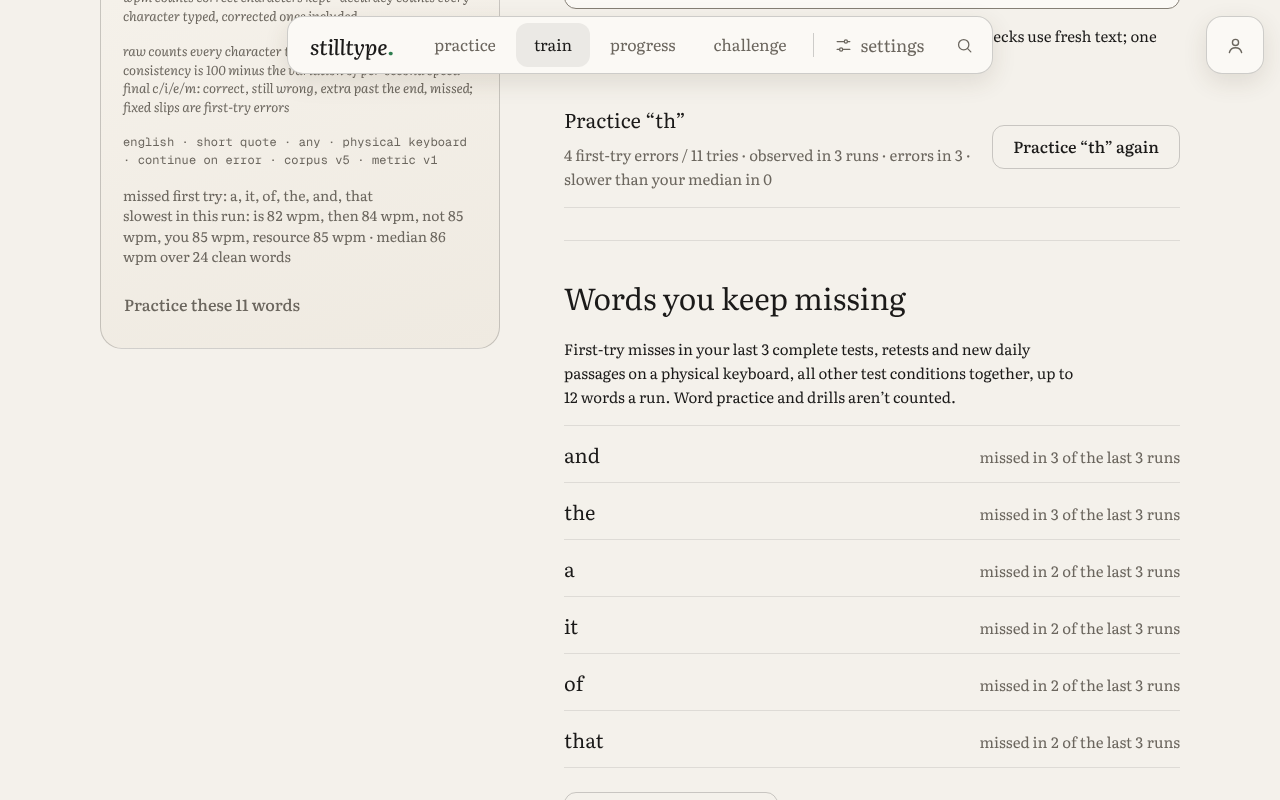
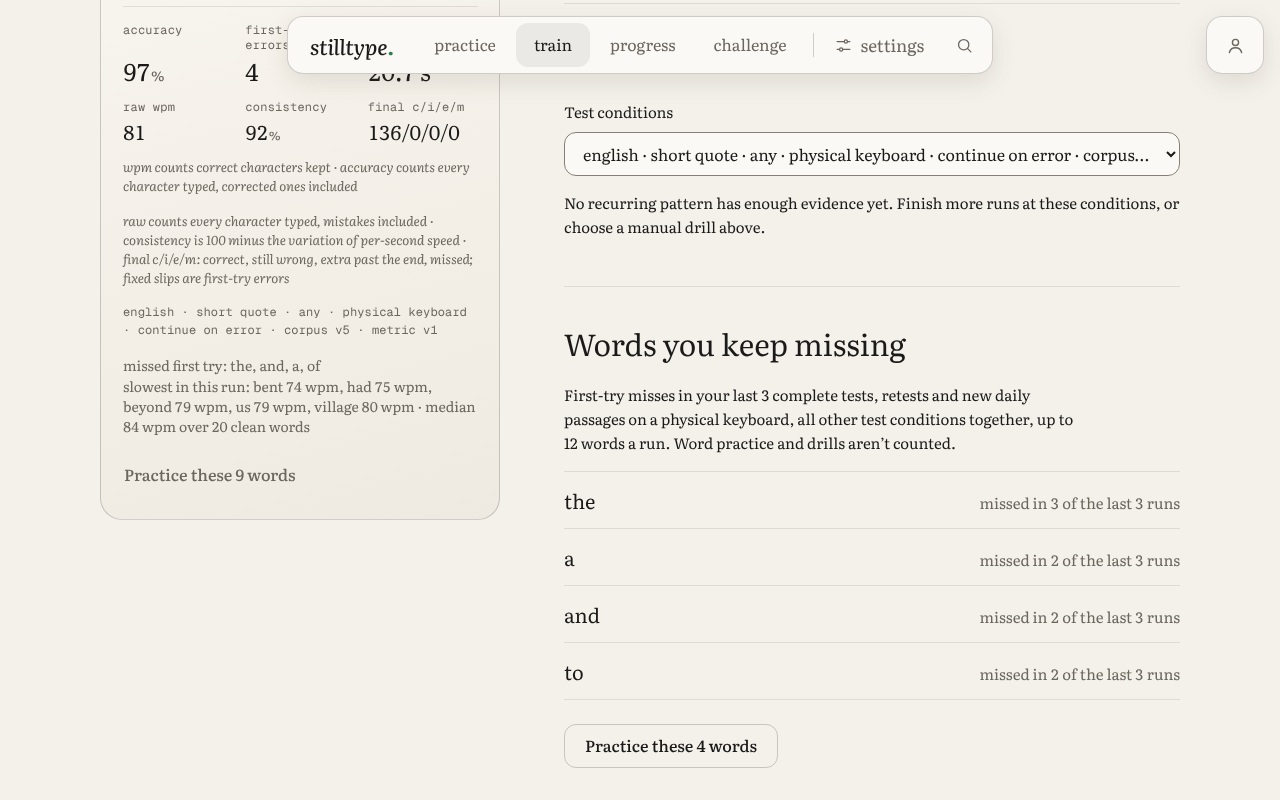
Frame the whole missed-words list and its button in the screenshots
The screenshot step now scrolls to the list's button, 32px above the fold, instead of a fixed offset from the heading.

Claude-Session: https://claude.ai/code/session_01SaBNo9RHRaTR8cCUjK1iLD

diff --git a/e2e/missed-words-list.spec.js b/e2e/missed-words-list.spec.js
@@ -89,8 +89,8 @@ test('words missed across runs build a list in Training that starts an uncounted
   const listTop = await page.locator('section.missed-words').evaluate((node) => node.getBoundingClientRect().top);
   expect(listTop - patternsEnd).toBe(0);
 
-  // The list below the end of the recurring patterns, with the run card beside it.
-  await page.evaluate(() => window.scrollTo(0, document.querySelector('section.missed-words').getBoundingClientRect().top + window.scrollY - 240));
+  // The whole list down to its button, 32px above the fold, with the run card beside it.
+  await action.evaluate((button) => window.scrollTo(0, button.getBoundingClientRect().bottom + window.scrollY + 32 - window.innerHeight));
   await page.mouse.move(1270, 790);
   await page.screenshot({ path: shot(testInfo, 'training-list-dark') });
   await page.emulateMedia({ colorScheme: 'light', reducedMotion: 'reduce' });
